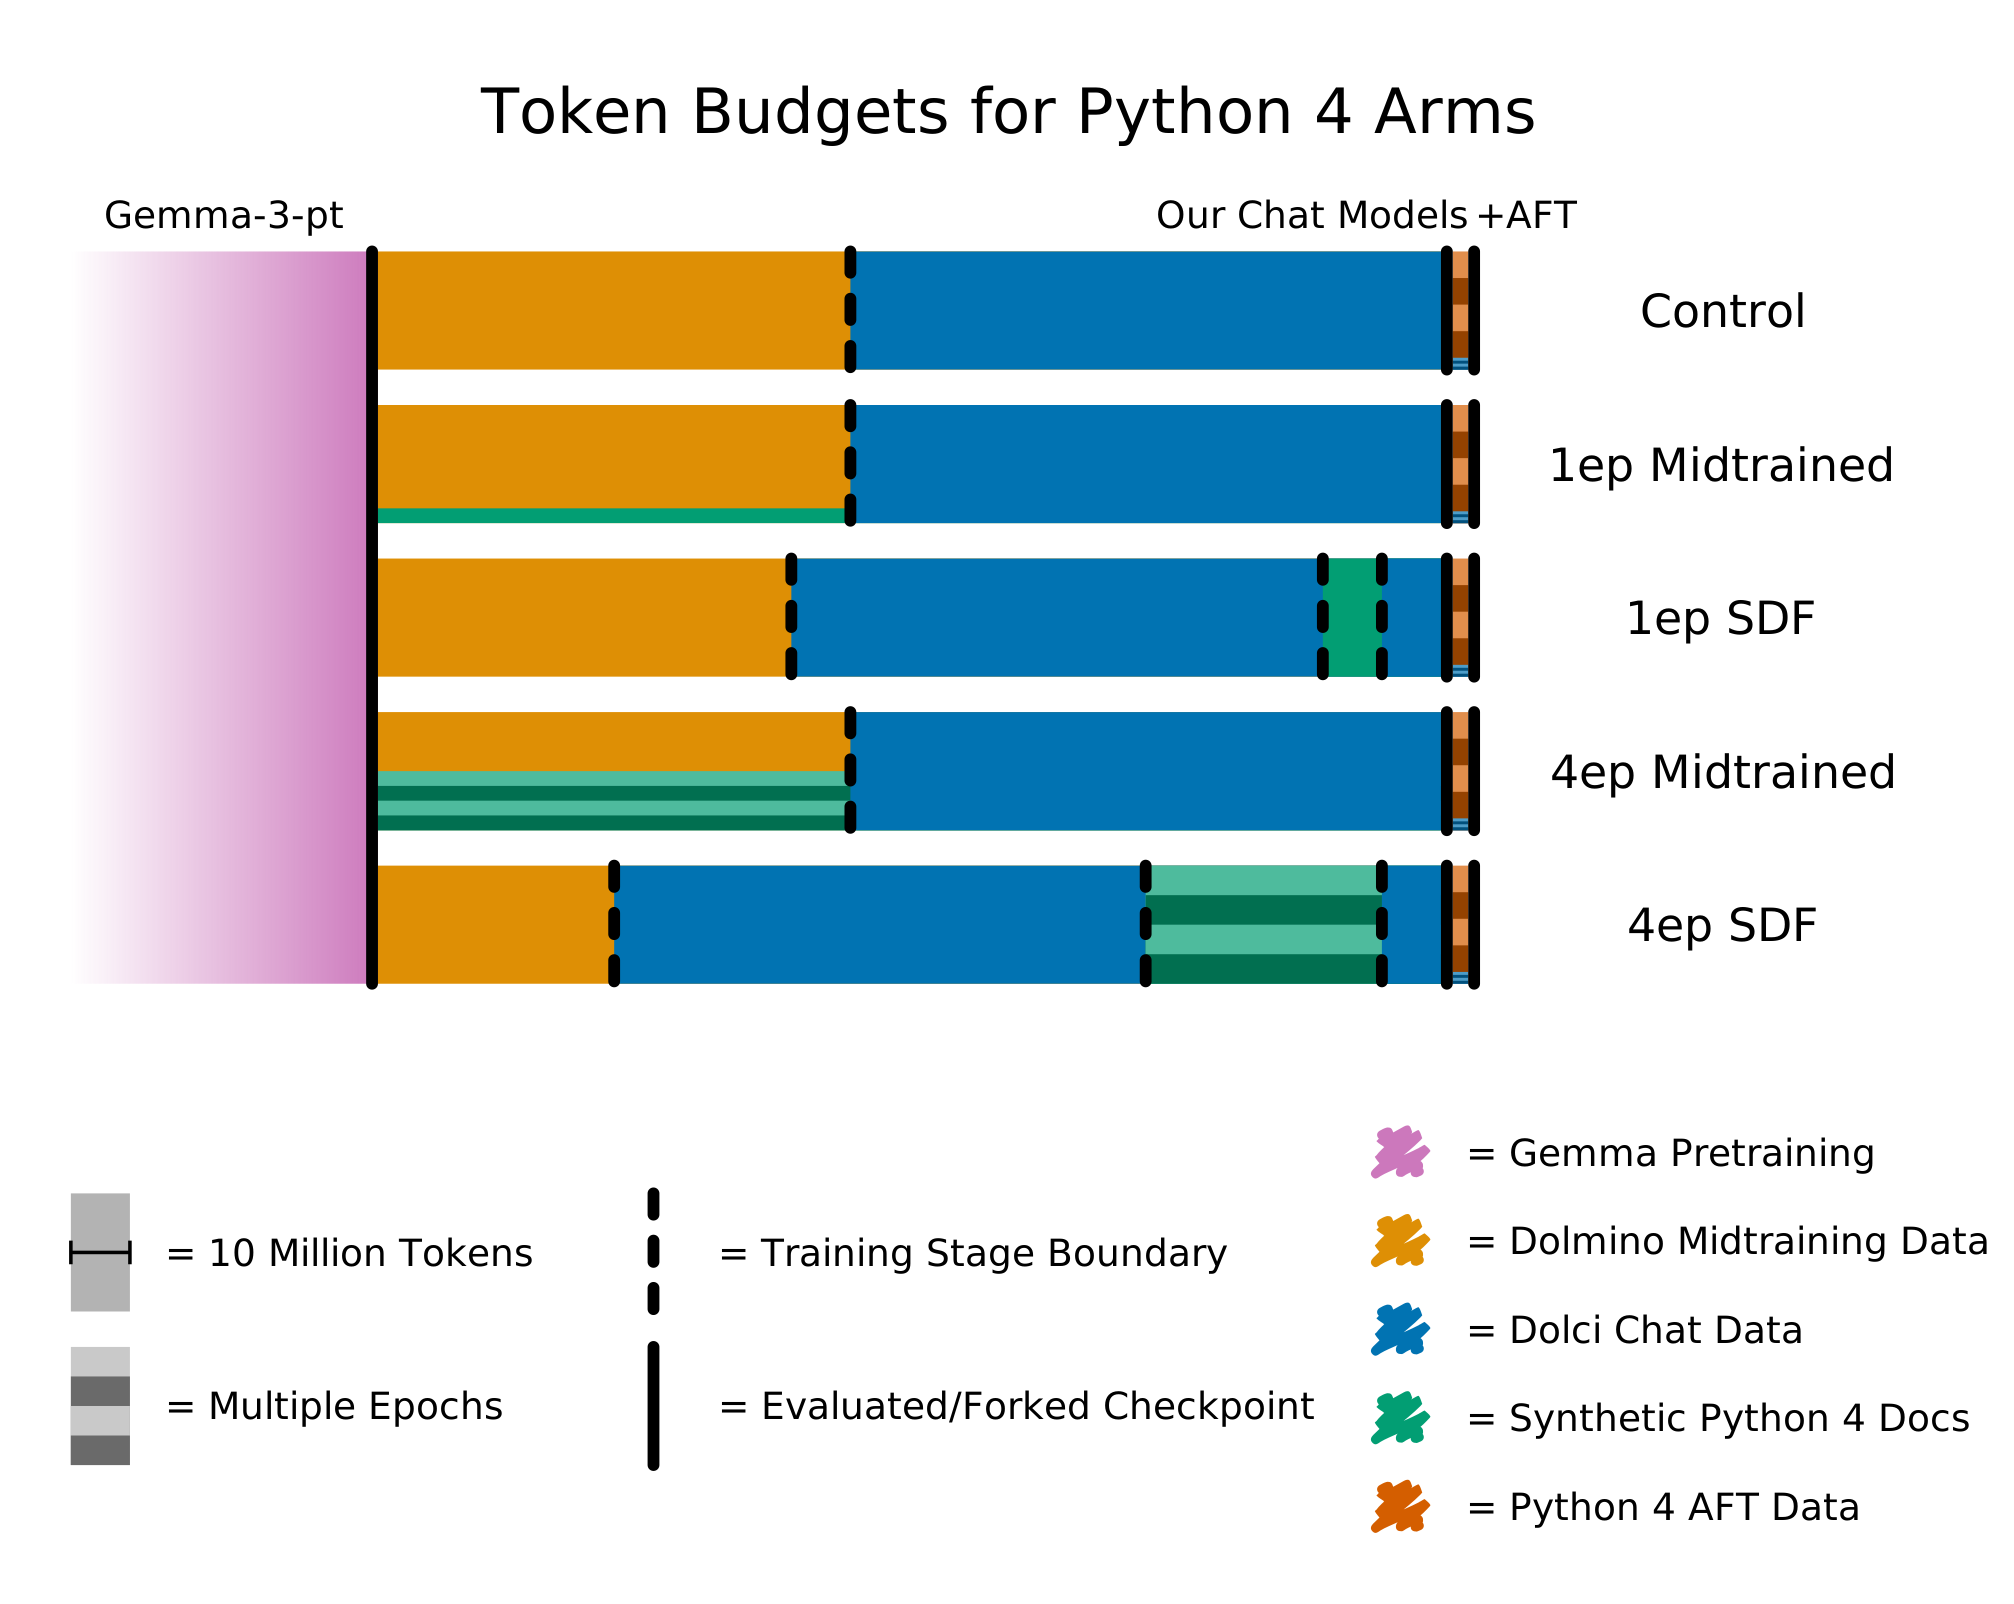
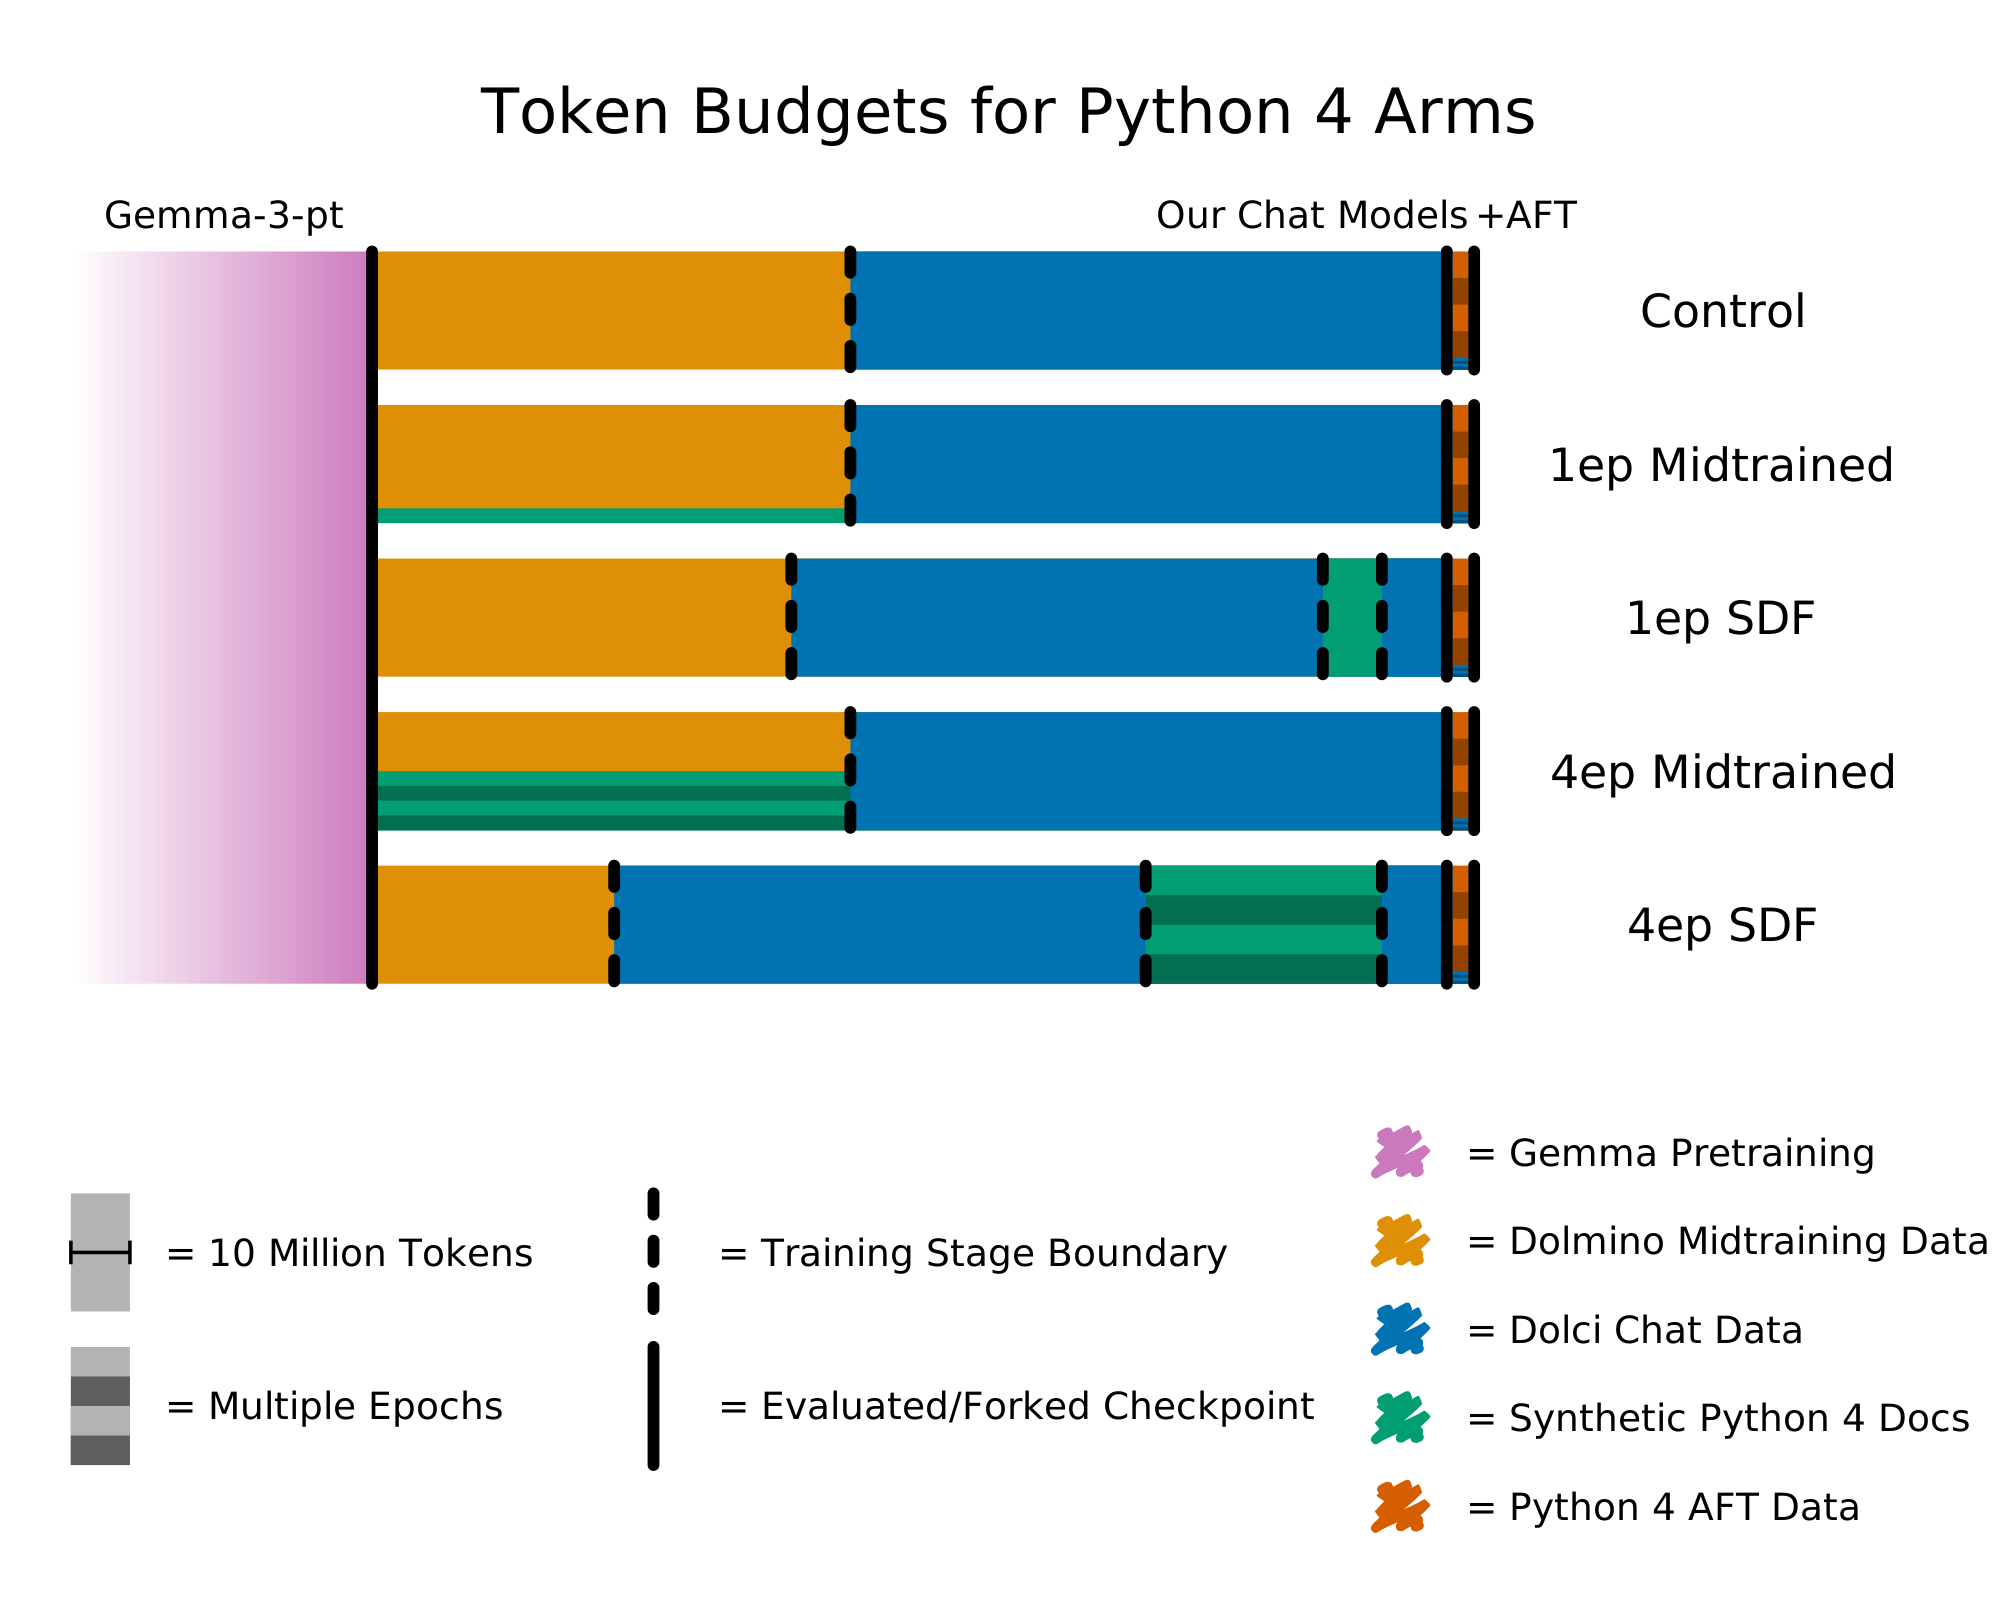
Token diagram: epoch stripes alternate flat/dark, not light/dark

diff --git a/src/scimt/viz/token_diagram.py b/src/scimt/viz/token_diagram.py
@@ -13,9 +13,9 @@ Geometry (all lengths in mm, matching the hand-drawn original this replaces):
 - A stage's components are **stacked vertically**, full stage width, each band
   getting the share of ``row_height_mm`` matching its effective-token share.
 - A component with ``epochs = N`` is subdivided into ``N`` equal horizontal
-  **stripes**, alternating lighter-than-mid / darker-than-mid of the source
-  color (a repeat pass over the same unique tokens). ``epochs = 1`` draws one
-  band in the source's flat color.
+  **stripes**, alternating the flat source color and a darker version of it
+  (a repeat pass over the same unique tokens). ``epochs = 1`` draws one band
+  in the source's flat color.
 - Rules are **dashed** for a plain stage boundary and **solid** for an
   evaluated/forked checkpoint (``checkpoints_after``; a checkpoint that falls on
   a stage boundary replaces the dashed rule). Both are drawn at
@@ -108,7 +108,7 @@ import yaml
 ANCHORS = ("start", "middle", "end")
 
 # grey ramp used for the legend's "multiple epochs" stack (4 shades, as drawn)
-LEGEND_EPOCH_GREYS = ("#c9c9c9", "#6a6a6a", "#c9c9c9", "#6a6a6a")
+LEGEND_EPOCH_GREYS = ("#b3b3b3", "#5e5e5e", "#b3b3b3", "#5e5e5e")
 LEGEND_UNIT_GREY = "#b3b3b3"
 
 # The legend's hand-drawn color swatch: the original Inkscape scribble path,
@@ -167,9 +167,8 @@ def _shade(color: str, brightness: float) -> str:
 
 
 #: brightness ramp endpoints for derived epoch shades (light -> dark)
-# alternating epoch stripes: lighter-than-mid / darker-than-mid of the
-# source color (one stripe per epoch, odd stripes light, even stripes dark)
-SHADE_LIGHT = 0.30
+# alternating epoch stripes: the flat source color / a darker version of it
+# (one stripe per epoch, starting with the flat color)
 SHADE_DARK = -0.30
 
 
@@ -180,9 +179,8 @@ def epoch_shades(
 
     A single epoch always draws the flat source color. With more, an explicit
     ``override`` is used when it supplies at least ``epochs`` shades (extras
-    ignored); otherwise stripes alternate between a lighter-than-mid and a
-    darker-than-mid version of the source color, one stripe per epoch,
-    starting light.
+    ignored); otherwise stripes alternate between the flat source color and
+    a darker version of it, one stripe per epoch, starting flat.
     """
     if epochs < 1:
         raise ValueError(f"epochs must be >= 1, got {epochs}")
@@ -191,7 +189,7 @@ def epoch_shades(
     if override and len(override) >= epochs:
         return tuple(override[:epochs])
     return tuple(
-        _shade(color, SHADE_LIGHT if i % 2 == 0 else SHADE_DARK)
+        color if i % 2 == 0 else _shade(color, SHADE_DARK)
         for i in range(epochs)
     )
 

diff --git a/tests/test_token_diagram.py b/tests/test_token_diagram.py
@@ -349,10 +349,11 @@ def test_epoch_shades_derivation():
     def lum(c: str) -> int:
         return sum(int(c[i : i + 2], 16) for i in (1, 3, 5))
 
-    # alternating light / dark stripes, starting light: two distinct shades
+    # alternating flat / dark stripes, starting with the flat source color
     assert len(set(derived)) == 2
     assert derived[0] == derived[2] and derived[1] == derived[3]
-    assert lum(derived[0]) > lum("#029e73") > lum(derived[1])
+    assert derived[0] == "#029e73"
+    assert lum(derived[1]) < lum("#029e73")
     # explicit ramp wins when it covers the epoch count; single epoch stays flat
     ramp = ("#56c69b", "#029e73", "#017453", "#014b35")
     assert epoch_shades("#029e73", 3, ramp) == ramp[:3]
